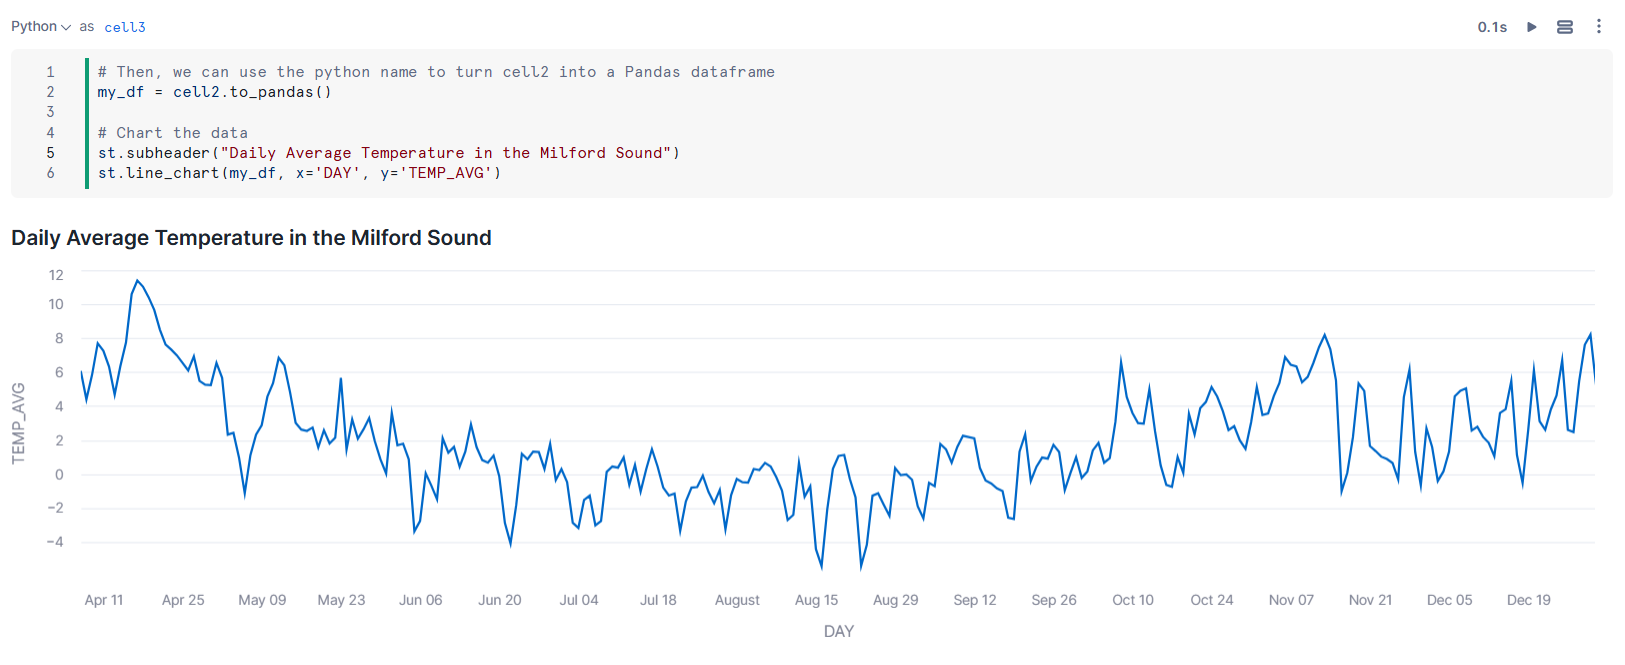
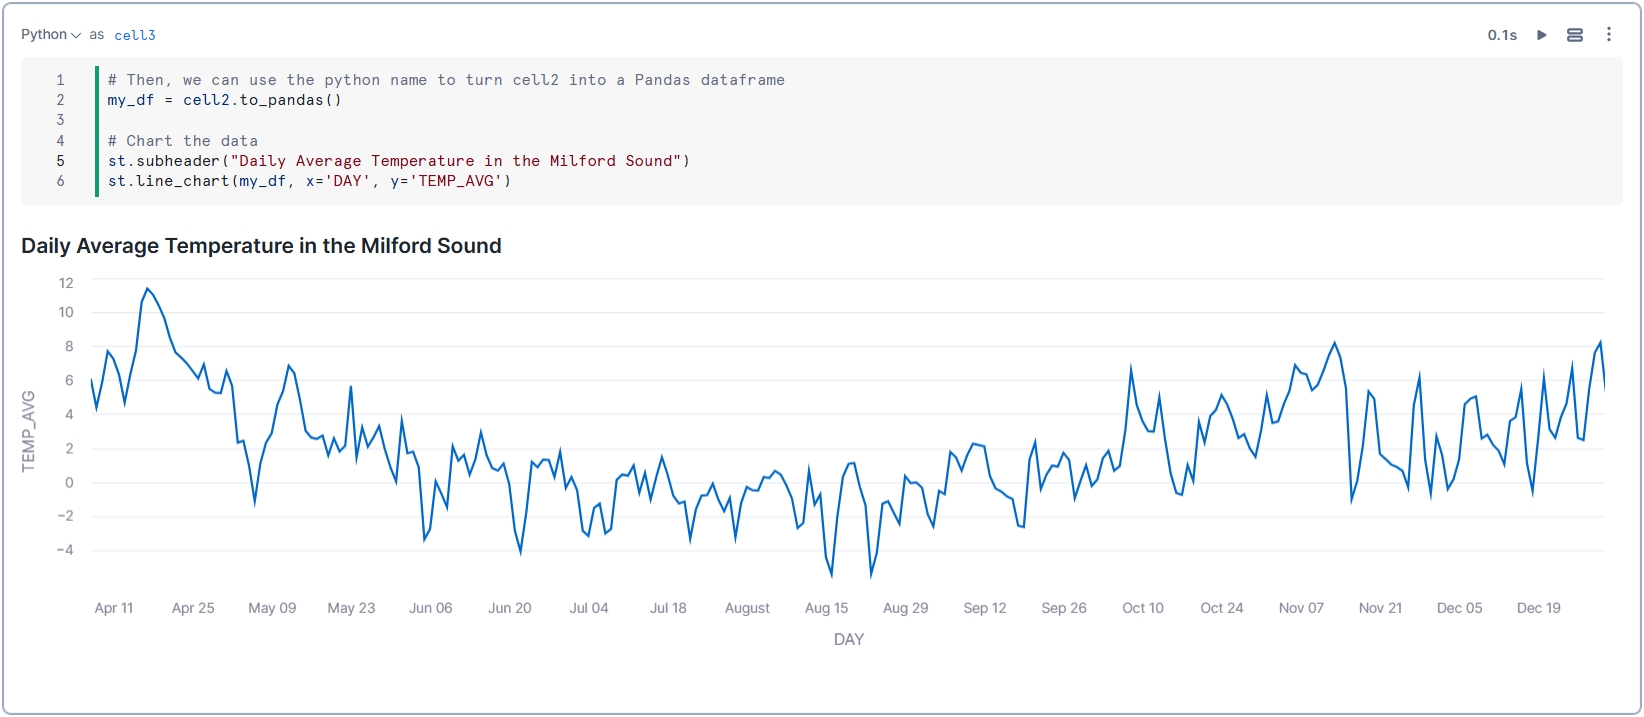
some edits

diff --git a/README.md b/README.md
@@ -24,19 +24,17 @@ Created an S3 bucket and uploaded three sample CSV files containing hourly air t
 
 ### 2. Snowflake
 
-Connected the Snowflake warehouse to S3.
-Read data from the S3 files and configured key components, including IAM roles, storage integration, stages, and table schema.
+Connected the Snowflake warehouse to S3. Read data from the S3 files and configured key components, including IAM roles, storage integration, stages, and table schema.
 (source code: `avalanche_extract.sql`)
 
 <img width="1920" height="935" alt="Image" src="https://github.com/user-attachments/assets/567d479c-fe34-4e85-81ac-d3d71c6febc8" />
 
-Table schema example
+#### Table schema example
 <img width="1920" height="935" alt="Image" src="https://github.com/user-attachments/assets/523716d2-3b0a-41ed-8709-c12198e9e5fd" />
 
 ### 3. dbt
 
 Built a SQL pipeline in dbt to transform the data and load the final results as a Snowflake view.
-
 (source code: `etl_ava/models` folder)
 
 
@@ -64,7 +62,7 @@ Built a SQL pipeline in dbt to transform the data and load the final results as 
 
 #### Visulise final results:
 
-<img width="1625" height="665" alt="Image" src="https://github.com/user-attachments/assets/8cce9b82-3644-410a-98c1-ca76cd3c70f1" />
+<img width="1644" height="717" alt="Image" src="https://github.com/user-attachments/assets/7863a6dd-2495-4453-8bc4-56a1ee50bd98" />
 
 
 
